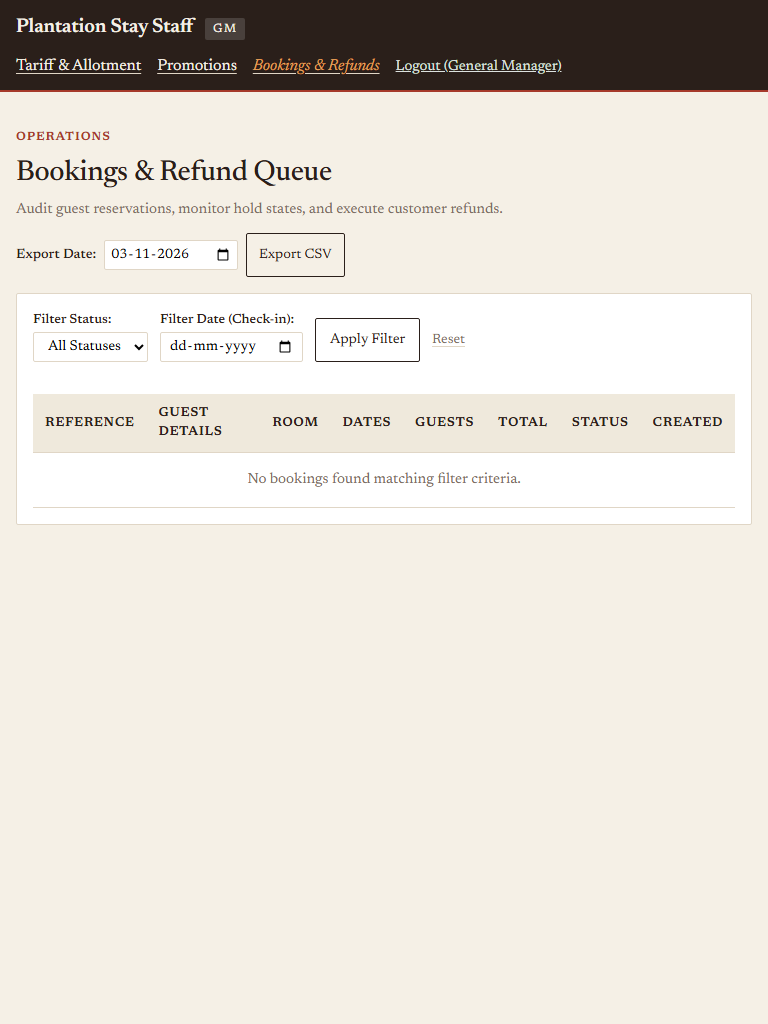
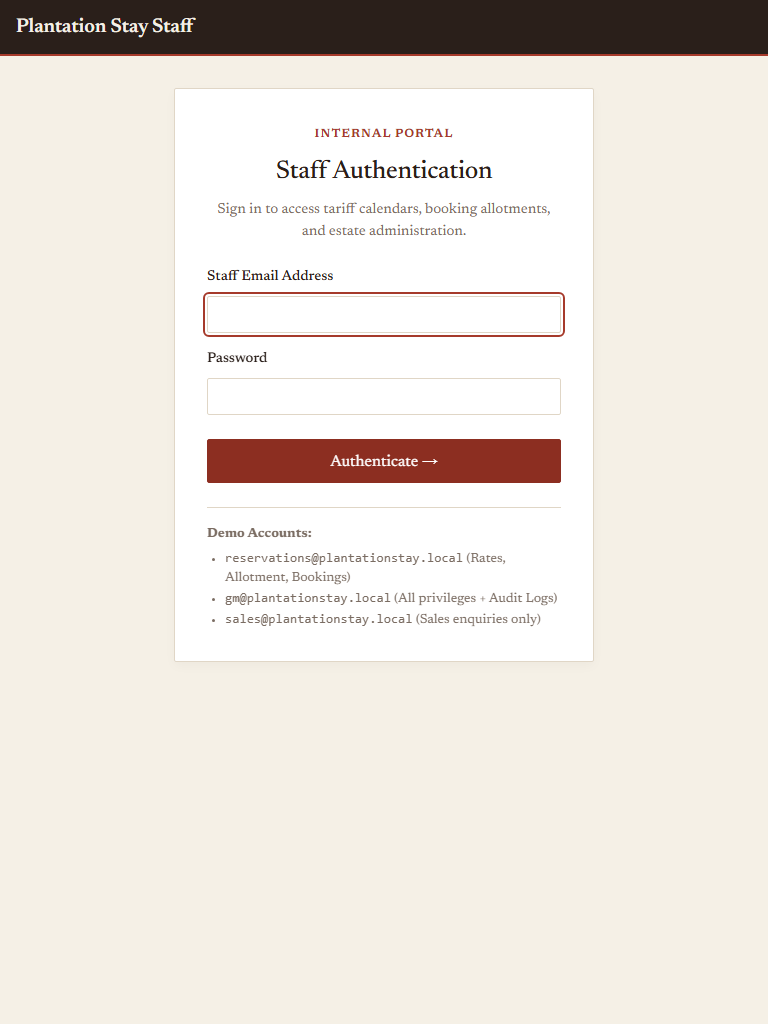
docs(screenshots): capture 768px tablet and 375px mobile screenshots and update ASSUMPTIONS.md

diff --git a/scripts/capture_phase4_screenshots.py b/scripts/capture_phase4_screenshots.py
@@ -1,0 +1,89 @@
+"""Capture 768px tablet and 375px mobile screenshots for Enquiry screens."""
+import os
+from playwright.sync_api import sync_playwright
+
+BASE_URL = "http://127.0.0.1:8000"
+OUT_DIR = "docs/screenshots"
+os.makedirs(OUT_DIR, exist_ok=True)
+
+with sync_playwright() as p:
+    browser = p.chromium.launch(headless=True)
+
+    # -------------------------------------------------------------
+    # 1. Tablet Viewport (768 x 1024)
+    # -------------------------------------------------------------
+    tablet_context = browser.new_context(
+        viewport={"width": 768, "height": 1024},
+        user_agent="Mozilla/5.0 (iPad; CPU OS 17_0 like Mac OS X) AppleWebKit/605.1.15"
+    )
+    t_page = tablet_context.new_page()
+
+    # Public Form (768px)
+    print("Capturing Public Enquiry Form (768px)...")
+    t_page.goto(f"{BASE_URL}/enquire")
+    t_page.wait_for_load_state("networkidle")
+    t_page.screenshot(path=os.path.join(OUT_DIR, "enquiry_public_form_768px.png"), full_page=True)
+
+    # Staff Login as GM
+    print("Staff login on tablet...")
+    t_page.goto(f"{BASE_URL}/staff/login")
+    t_page.wait_for_load_state("networkidle")
+    t_page.fill('input[name="email"]', "gm@plantationstay.local")
+    t_page.fill('input[name="password"]', "GMDemo2026!")
+    t_page.click('button[type="submit"]')
+    t_page.wait_for_load_state("networkidle")
+
+    # Staff Inbox (768px)
+    print("Capturing Staff Enquiry Inbox (768px)...")
+    t_page.goto(f"{BASE_URL}/staff/enquiries")
+    t_page.wait_for_load_state("networkidle")
+    t_page.screenshot(path=os.path.join(OUT_DIR, "staff_inbox_768px.png"), full_page=True)
+
+    # Staff Enquiry Detail (768px)
+    print("Capturing Staff Enquiry Detail (768px)...")
+    t_page.goto(f"{BASE_URL}/staff/enquiries/ENQ-4411")
+    t_page.wait_for_load_state("networkidle")
+    t_page.screenshot(path=os.path.join(OUT_DIR, "staff_enquiry_detail_768px.png"), full_page=True)
+
+    tablet_context.close()
+
+    # -------------------------------------------------------------
+    # 2. Mobile Viewport (375 x 812)
+    # -------------------------------------------------------------
+    mobile_context = browser.new_context(
+        viewport={"width": 375, "height": 812},
+        user_agent="Mozilla/5.0 (iPhone; CPU iPhone OS 17_0 like Mac OS X) AppleWebKit/605.1.15"
+    )
+    m_page = mobile_context.new_page()
+
+    # Public Form (375px)
+    print("Capturing Public Enquiry Form (375px)...")
+    m_page.goto(f"{BASE_URL}/enquire")
+    m_page.wait_for_load_state("networkidle")
+    m_page.screenshot(path=os.path.join(OUT_DIR, "enquiry_public_form_375px.png"), full_page=True)
+
+    # Staff Login as GM
+    print("Staff login on mobile...")
+    m_page.goto(f"{BASE_URL}/staff/login")
+    m_page.wait_for_load_state("networkidle")
+    m_page.fill('input[name="email"]', "gm@plantationstay.local")
+    m_page.fill('input[name="password"]', "GMDemo2026!")
+    m_page.click('button[type="submit"]')
+    m_page.wait_for_load_state("networkidle")
+
+    # Staff Inbox (375px)
+    print("Capturing Staff Enquiry Inbox (375px)...")
+    m_page.goto(f"{BASE_URL}/staff/enquiries")
+    m_page.wait_for_load_state("networkidle")
+    m_page.screenshot(path=os.path.join(OUT_DIR, "staff_inbox_375px.png"), full_page=True)
+
+    # Staff Enquiry Detail (375px)
+    print("Capturing Staff Enquiry Detail (375px)...")
+    m_page.goto(f"{BASE_URL}/staff/enquiries/ENQ-4411")
+    m_page.wait_for_load_state("networkidle")
+    m_page.screenshot(path=os.path.join(OUT_DIR, "staff_enquiry_detail_375px.png"), full_page=True)
+
+    mobile_context.close()
+
+    browser.close()
+    print("All Phase 4 screenshots captured successfully!")

diff --git a/ASSUMPTIONS.md b/ASSUMPTIONS.md
@@ -93,7 +93,31 @@ This document records all baseline assumptions, invented values, parameters, and
 - **Responsive Layout**:
   - 768px tablet layout supported with horizontal scroll containers on tabular ledgers, grid wrapping for form fields, and responsive typography.
 
-## 9. Typography & Asset Licences
+## 9. AI Router, Working Hours & Enquiry Management
+- **Operational Working Hours**:
+  - Standard hill resort business hours: **09:00 to 18:00 IST, Monday through Saturday** (Sunday is closed for guest communications).
+  - SLA tracking (`working_minutes_between`) counts active operational minutes only. Evening messages received after 18:00 roll over to 09:00 on the next working day.
+  - Target first reply is **under 30 working minutes**. Enquiries exceeding 30 working minutes without a reply are dynamically tagged as **OVERDUE** in the staff inbox.
+- **Date Extraction Assumptions**:
+  - Extracted dates must satisfy `check_out > check_in` and `check_in >= today`. Violations automatically null both dates without throwing an error.
+  - Missing year assumption: If guest mentions a month and day without specifying the year (e.g., "14-16 Nov"), it is assumed to refer to the **next upcoming date** (current year if in the future, otherwise next calendar year).
+- **Enquiry Identification**:
+  - Seed dataset retains exact fixed identifiers: `ENQ-4410`, `ENQ-4411`, `ENQ-4412`.
+  - Subsequent dynamic enquiries increment sequentially from `ENQ-4413` without collision.
+- **Pricing & Reply Draft Boundaries**:
+  - AI router / LLM outputs intent and metadata only (`category`, `confidence`, `dates`, `guests`, `budget`, `summary`). The model is never permitted to write reply wording or invent financial figures.
+  - All draft text is constructed via deterministic Python code templates.
+  - Only complete, valid check-in and check-out dates produce a priced draft; otherwise, the draft prompts the guest to provide dates.
+  - If a requested date range is fully committed or blacked out, the system informs the guest and suggests nearest alternate open dates.
+- **Price Defense Guard**:
+  - Any simulated "Send" or draft update is validated against `verify_draft_prices`. The draft body is scanned for money tokens (`Rs`, `₹`, `INR`, `rupees`, `lakh`, `k`). Any amount not generated by the code rate calculation engine is strictly blocked.
+- **Complaint Escalations**:
+  - Any enquiry exhibiting 2 or more complaint signals (or classified as a complaint) immediately generates an unread alert for the General Manager (`target_role='gm'`).
+  - Re-routing an existing enquiry to `complaint` triggers a GM escalation alert.
+- **Evaluations & Split Testing**:
+  - `data/enquiries_seed.json` is partitioned into a Tuning Set (11 cases) and a Held-out Evaluation Set (7 cases). The offline deterministic keyword fallback classifier achieves 100% accuracy across both partitions (exceeding the required 70% threshold).
+
+## 10. Typography & Asset Licences
 - **Typeface**: Single self-hosted variable font family: `Newsreader` (Google Fonts / Production Type), licensed under the SIL Open Font License (OFL 1.1). Hosted as subset WOFF2 (`newsreader-latin.woff2`, `newsreader-italic-latin.woff2`).
 - **Photography & Placeholders**:
   - `docs/photos_todo.md` is currently absent, so no third-party licence-free photographs are assumed or invented.
